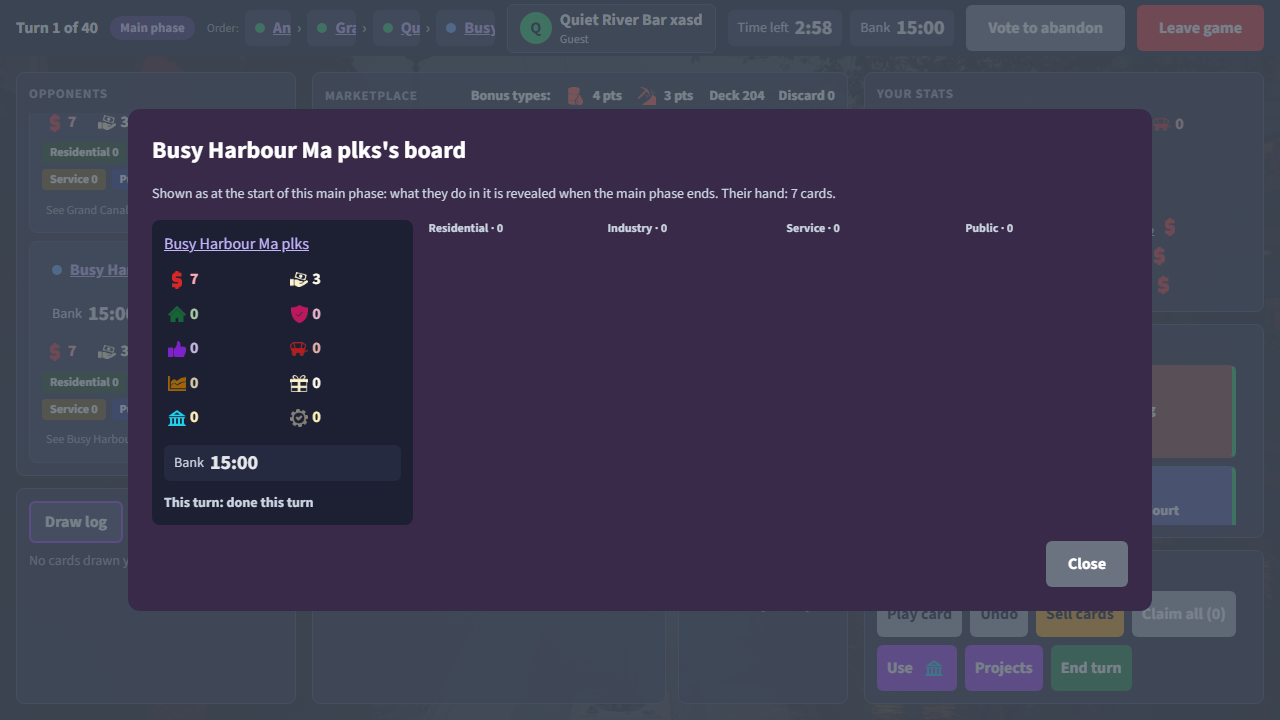
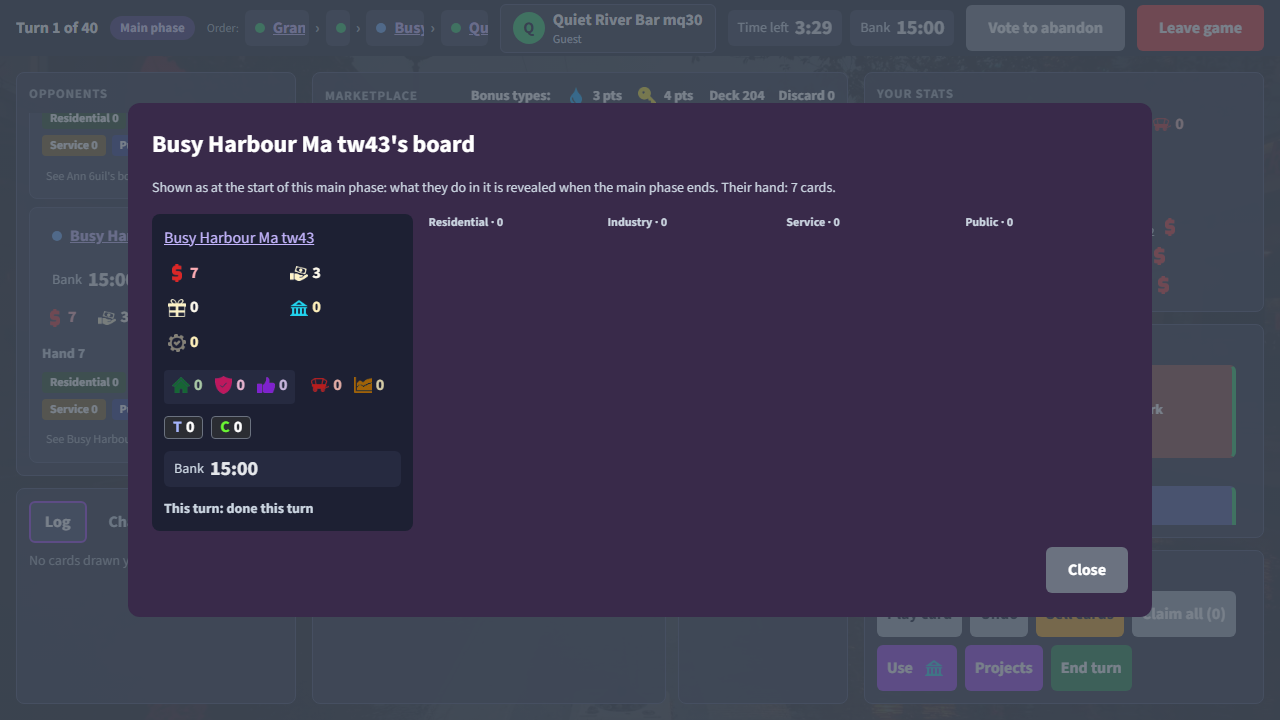
CLIENT: Opponents show influence, quests, types, combos and the basic stats table

diff --git a/src/client/screens/game/opponents.test.tsx b/src/client/screens/game/opponents.test.tsx
@@ -39,6 +39,8 @@ describe("opponents overview", () => {
     const di = within(opponents().getByRole("article", { name: "Di" }));
     expect(di.getByRole("img", { name: "Funds 7" })).toBeDefined();
     expect(di.getByRole("img", { name: "Income 14" })).toBeDefined();
+    expect(di.getByRole("img", { name: "Influence 3" })).toBeDefined();
+    expect(di.getByRole("img", { name: "Quests completed 0" })).toBeDefined();
     expect(di.getByText("Hand 5")).toBeDefined();
     expect(
       within(di.getByRole("list", { name: "Cards in play of Di" }))
@@ -55,6 +57,51 @@ describe("opponents overview", () => {
 });
 
 describe("opponent's board", () => {
+  it("shows the type and combo counts and the five basic stats, with negative ones in a red table", () => {
+    const update = roomUpdateWith({});
+    const game = update.game;
+    const view = game?.view;
+    if (game === null || view === undefined) {
+      throw new Error("no game");
+    }
+    const seats = view.seats.map((seat) =>
+      seat.seat === 4 && seat.kind === "other"
+        ? {
+            ...seat,
+            city: ["Cottage", "Lake Park"] as const,
+            combosClaimed: [
+              { card: "Cottage", combo: 0, times: 1 },
+              { card: "Lake Park", combo: 1, times: 3 },
+            ] as const,
+            stats: {
+              ...seat.stats,
+              workforce: 2,
+              quality: -1,
+              satisfaction: 0,
+              product: 4,
+              distribution: 5,
+            },
+          }
+        : seat,
+    );
+    render(
+      <GamePage {...gamePageProps({ ...update, game: { ...game, view: { ...view, seats } } })} />,
+    );
+    fireEvent.click(opponents().getByRole("button", { name: "See Di's board ›" }));
+    const board = within(screen.getByRole("dialog", { name: "Di's board" }));
+    expect(board.getByRole("img", { name: "Types in their city 4" })).toBeDefined();
+    expect(board.getByRole("img", { name: "Combos claimed 4" })).toBeDefined();
+    const table = board.getByRole("list", { name: "Workforce, quality and satisfaction of Di" });
+    expect(table.className).toContain("projectStatsNegative");
+    expect(
+      within(table)
+        .getAllByRole("img")
+        .map((chip) => chip.getAttribute("aria-label")),
+    ).toEqual(["Workforce 2", "Quality -1", "Satisfaction 0"]);
+    expect(board.getByRole("img", { name: "Product 4" })).toBeDefined();
+    expect(board.getByRole("img", { name: "Distribution 5" })).toBeDefined();
+  });
+
   it("opens from the card, says it shows the start of the main phase, and lists the city by sector", () => {
     render(<GamePage {...gamePageProps(withDiCity(roomUpdateWith({})))} />);
     fireEvent.click(opponents().getByRole("button", { name: "See Di's board ›" }));

diff --git a/src/client/screens/game/OpponentStatsBox.tsx b/src/client/screens/game/OpponentStatsBox.tsx
@@ -1,9 +1,13 @@
 import type { OtherSeatView } from "../../../shared/OtherSeatView";
 import type { PlayerId } from "../../../shared/PlayerId";
 import { PlayerNameLink } from "../../components/PlayerNameLink";
+import { CountBox } from "../../components/CountBox";
 import { StatChip } from "../../components/StatChip";
 import type { StatName } from "../../icons/StatName";
+import { cityTypeTotalOf } from "./cityTypeTotalOf";
+import { combosClaimedCountOf } from "./combosClaimedCountOf";
 import { LiveBankChip } from "./LiveBankChip";
+import { OpponentBasicStats } from "./OpponentBasicStats";
 import styles from "./OpponentBoardDialog.module.css";
 
 type Props = {
@@ -15,11 +19,6 @@ type Props = {
 const BOARD_STATS = [
   "funds",
   "income",
-  "workforce",
-  "quality",
-  "satisfaction",
-  "product",
-  "distribution",
   "bonus",
   "influence",
 ] as const satisfies ReadonlyArray<StatName>;
@@ -45,6 +44,15 @@ export function OpponentStatsBox({ seat, name, playerId }: Props) {
           <StatChip stat="buildPasses" value={seat.buildPasses} />
         </li>
       </ul>
+      <OpponentBasicStats stats={seat.stats} name={name} />
+      <div className={styles["counts"]}>
+        <CountBox letter="T" count={cityTypeTotalOf(seat.city)} label="Types in their city" />
+        <CountBox
+          letter="C"
+          count={combosClaimedCountOf(seat.combosClaimed)}
+          label="Combos claimed"
+        />
+      </div>
       <LiveBankChip timeBankMs={seat.timeBankMs} clock={seat.clock} label="Bank" />
       <p className={styles["status"]}>This turn: {turnStatus(seat)}</p>
     </section>

diff --git a/src/client/screens/game/OpponentBasicStats.tsx b/src/client/screens/game/OpponentBasicStats.tsx
@@ -1,0 +1,37 @@
+import type { Stats } from "../../../shared/Stats";
+import { StatChip } from "../../components/StatChip";
+import styles from "./OpponentBoardDialog.module.css";
+
+type Props = {
+  readonly stats: Stats;
+  readonly name: string;
+};
+
+const PROJECT_STATS = ["workforce", "quality", "satisfaction"] as const;
+
+const OUTPUT_STATS = ["product", "distribution"] as const;
+
+export function OpponentBasicStats({ stats, name }: Props) {
+  const isAnyNegative = PROJECT_STATS.some((stat) => stats[stat] < 0);
+  return (
+    <div className={styles["basicStats"]}>
+      <ul
+        className={styles[isAnyNegative ? "projectStatsNegative" : "projectStats"]}
+        aria-label={`Workforce, quality and satisfaction of ${name}`}
+      >
+        {PROJECT_STATS.map((stat) => (
+          <li key={stat}>
+            <StatChip stat={stat} value={stats[stat]} />
+          </li>
+        ))}
+      </ul>
+      <ul className={styles["outputStats"]}>
+        {OUTPUT_STATS.map((stat) => (
+          <li key={stat}>
+            <StatChip stat={stat} value={stats[stat]} />
+          </li>
+        ))}
+      </ul>
+    </div>
+  );
+}

diff --git a/src/client/screens/game/OpponentCard.tsx b/src/client/screens/game/OpponentCard.tsx
@@ -2,6 +2,7 @@ import type { PlayerId } from "../../../shared/PlayerId";
 import { useContext } from "react";
 import type { OtherSeatView } from "../../../shared/OtherSeatView";
 import { PlayerBadge } from "../../components/PlayerBadge";
+import { CountBox } from "../../components/CountBox";
 import { StatChip } from "../../components/StatChip";
 import { cardsBySector } from "./cardsBySector";
 import styles from "./OpponentCard.module.css";
@@ -41,6 +42,8 @@ export function OpponentCard({ seat, name, playerId, onOpen }: Props) {
         <div className={styles["stats"]}>
           <StatChip stat="funds" value={seat.stats.funds} />
           <StatChip stat="income" value={seat.stats.income} />
+          <StatChip stat="influence" value={seat.stats.influence} />
+          <CountBox letter="Q" count={seat.questsCompleted.length} label="Quests completed" />
           <span className={styles["hand"]}>Hand {seat.handCount}</span>
         </div>
         <ul className={styles["sectors"]} aria-label={`Cards in play of ${name}`}>

diff --git a/src/client/tokens.css b/src/client/tokens.css
@@ -28,6 +28,8 @@
   --color-board-chat-own-sender: #c4b5fd;
   --color-board-chat-own: #2e2450;
   --color-board-chat-sender: #93c5fd;
+  --color-board-count-box-border: #6b7280;
+  --color-board-count-box: #2b2d33;
   --color-board-draw-kind: #2e2442;
   --color-board-draw: #6d28d9;
   --color-board-email-pending-text: #fde68a;
@@ -39,6 +41,7 @@
   --color-board-guest-note: #2e2442;
   --color-board-market-phase-text: #1c1206;
   --color-board-market-phase: #f59e0b;
+  --color-board-negative-stats: #7f1d1d;
   --color-board-out-of-time: #f87171;
   --color-board-page-dim: rgba(11, 15, 26, 0.78);
   --color-board-pending: rgba(0, 0, 0, 0.6);
@@ -55,6 +58,7 @@
   --color-board-trade-off: #2b2840;
   --color-board-trade-status: #ddd6fe;
   --color-board-trade: #4c1d95;
+  --color-board-type-count: #a5b4fc;
   --color-board-user-menu: #1e1b2e;
   --color-board-your-go-text: #052e16;
   --color-board-your-go: #22c55e;

diff --git a/src/client/components/CountBox.tsx b/src/client/components/CountBox.tsx
@@ -1,0 +1,24 @@
+import styles from "./CountBox.module.css";
+
+type Props = {
+  readonly letter: "Q" | "T" | "C";
+  readonly count: number;
+  readonly label: string;
+};
+
+const LETTER_CLASSES = {
+  Q: "quests",
+  T: "types",
+  C: "combos",
+} as const satisfies Record<Props["letter"], string>;
+
+export function CountBox({ letter, count, label }: Props) {
+  return (
+    <span className={styles["box"]} role="img" aria-label={`${label} ${String(count)}`}>
+      <strong className={styles[LETTER_CLASSES[letter]]} aria-hidden="true">
+        {letter}
+      </strong>
+      <span aria-hidden="true">{count}</span>
+    </span>
+  );
+}

diff --git a/src/client/screens/game/OpponentBoardDialog.module.css b/src/client/screens/game/OpponentBoardDialog.module.css
@@ -29,6 +29,34 @@
   list-style: none;
 }
 
+.basicStats,
+.counts {
+  display: flex;
+  flex-wrap: wrap;
+  align-items: center;
+  gap: var(--space-sm);
+}
+
+.projectStats,
+.projectStatsNegative,
+.outputStats {
+  display: flex;
+  flex-wrap: wrap;
+  gap: var(--space-xs);
+  margin: 0;
+  padding: var(--space-xs);
+  border-radius: var(--radius-sm);
+  list-style: none;
+}
+
+.projectStats {
+  background: var(--color-panel-raised);
+}
+
+.projectStatsNegative {
+  background: var(--color-board-negative-stats);
+}
+
 .status {
   margin: 0;
   color: var(--color-text-secondary);

diff --git a/src/client/components/CountBox.module.css b/src/client/components/CountBox.module.css
@@ -1,0 +1,24 @@
+.box {
+  display: inline-flex;
+  align-items: center;
+  gap: var(--space-xs);
+  padding: 1px var(--space-sm);
+  border: 1px solid var(--color-board-count-box-border);
+  border-radius: var(--radius-sm);
+  background: var(--color-board-count-box);
+  color: var(--color-text-primary);
+  font-weight: var(--font-weight-bold);
+  line-height: 1.2;
+}
+
+.quests {
+  color: var(--color-palette-orange);
+}
+
+.types {
+  color: var(--color-board-type-count);
+}
+
+.combos {
+  color: var(--color-palette-green);
+}

diff --git a/tools/design-export/BOARD_VALUES.ts b/tools/design-export/BOARD_VALUES.ts
@@ -16,6 +16,10 @@ export const BOARD_VALUES: Readonly<Record<string, string>> = {
   "--color-board-your-go": "#22c55e",
   "--color-board-your-go-text": "#052e16",
   "--color-board-out-of-time": "#f87171",
+  "--color-board-count-box": "#2b2d33",
+  "--color-board-count-box-border": "#6b7280",
+  "--color-board-type-count": "#a5b4fc",
+  "--color-board-negative-stats": "#7f1d1d",
   "--color-board-page-dim": "rgba(11, 15, 26, 0.78)",
   "--color-board-toast-success": "#14532d",
   "--color-board-toast-error": "#4c1414",

diff --git a/src/client/screens/game/cityTypeTotalOf.ts b/src/client/screens/game/cityTypeTotalOf.ts
@@ -1,0 +1,6 @@
+import type { CardName } from "../../../shared/catalogue/CardName";
+import { cardOf } from "../../../shared/catalogue/cardOf";
+
+export function cityTypeTotalOf(city: ReadonlyArray<CardName>): number {
+  return city.flatMap((name) => cardOf(name).types).reduce((total, { count }) => total + count, 0);
+}

diff --git a/src/client/screens/game/combosClaimedCountOf.ts b/src/client/screens/game/combosClaimedCountOf.ts
@@ -1,0 +1,5 @@
+import type { ClaimedCombo } from "../../../shared/ClaimedCombo";
+
+export function combosClaimedCountOf(combosClaimed: ReadonlyArray<ClaimedCombo>): number {
+  return combosClaimed.reduce((total, { times }) => total + times, 0);
+}

diff --git a/docs/plan/phase-25a-playthrough-fixes.md b/docs/plan/phase-25a-playthrough-fixes.md
@@ -589,7 +589,25 @@ These 24 required scenarios now assert the new rules (Q126) and must pass again:
   - A doubled type (`doubleType1` in the card data) shown as its icon twice, on the big card and
     in the card set (S6.5). Screenshot: the big card showing a city card with a doubled type.
 
-- [ ] 11. **Opponents and quests** (S3.1, S3.2, S5.1, R19.4). **Large.**
+- [x] 11. **Opponents and quests** (S3.1, S3.2, S5.1, R19.4). **Large.**
+  - Done (2026-11-12). No scenario covers it; unit tests (`hiddenDuringMainPhase.test.ts`,
+    `quests.test.tsx`, `opponents.test.tsx`) and the browser tests `e2e/quests.spec.ts` and
+    `e2e/opponents.spec.ts` at all three sizes.
+  - As built: each quest progress line has `canCompleteNow` (`QuestProgress`, schema): the
+    `questRejection` check on the seat as the viewer sees it, false for a seat that left (Q130).
+    The client writes another player's name bold orange with a hidden "could complete it now"
+    (`QuestPlayerName`), and shows another player's negative stat only when the quest names it
+    (`negativeStatsShownIn`). `CountBox` (Q, T, C in a bordered dark grey box); the overview
+    shows influence and **Q** (quests completed); the board shows funds, income, bonus,
+    influence and build passes, then `OpponentBasicStats` (workforce, quality, satisfaction in a
+    small list, red while any is negative; product and distribution beside it), then **T**
+    (`cityTypeTotalOf`, from the cards in their city only) and **C** (`combosClaimedCountOf`,
+    the sum of claims). New tokens `--color-board-count-box`, `-count-box-border`,
+    `-type-count`, `-negative-stats` (`BOARD_VALUES.ts`, `tokens.css`).
+  - Screenshots: `opponent-board` and `quests-table` (seat 2 orange) changed.
+  - Differs from the phase file: nothing. `npm run design:tokens` drops
+    `--color-board-user-menu`, which is in `tokens.css` but not in `BOARD_VALUES.ts`; it was
+    kept by hand.
   - View: per quest place, which other seats could complete it now, decided on the server from
     the same check as `questRejection.ts` (in `questPlacesShownTo.ts`, beside
     `completeRejection`), judged on what the viewer may see of them (their shown state, R5.4).
